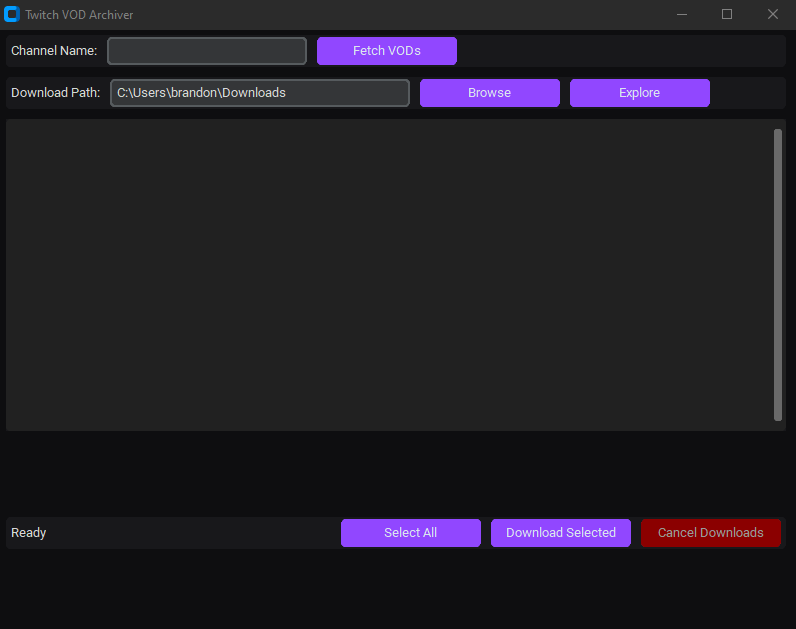
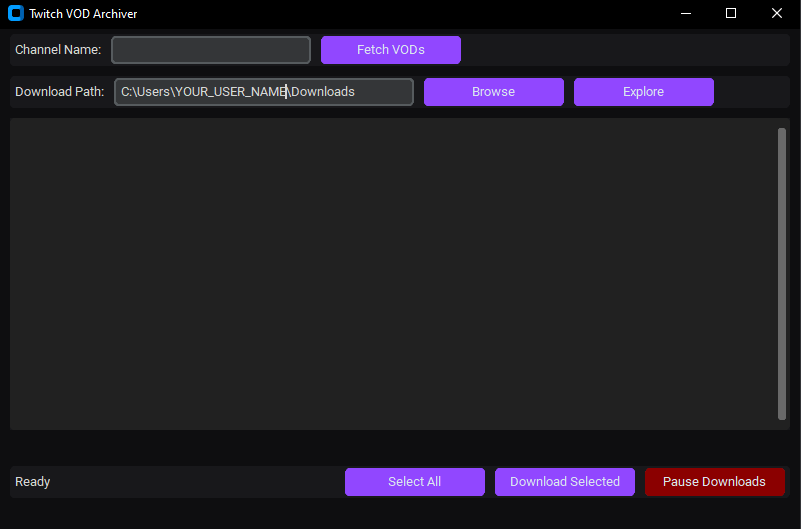
turns out there is no easy way to just cancel out a download, so i turned the cancel button into a pause button, updated screen shot with some changes to the ui

Changed region(s): [[0.0, 0.0, 1.0, 1.0], [0.0, 0.8166, 0.0603, 0.8771], [0.0, 0.9074, 0.0603, 0.9376]]

diff --git a/twitch_local_archiver.py b/twitch_local_archiver.py
@@ -26,7 +26,7 @@ class TwitchVODArchiver:
         self.ui.browse_button.configure(command=self.browse_path)
         self.ui.download_button.configure(command=self.download_selected)
         self.ui.select_all_button.configure(command=self.select_all_vods)
-        self.ui.cancel_button.configure(command=self.cancel_downloads)
+        self.ui.pause_button.configure(command=self.cancel_downloads)
 
     def browse_path(self):
         """Open directory browser"""
@@ -53,6 +53,13 @@ class TwitchVODArchiver:
     def _fetch_vods_thread(self, channel_name: str):
         """Background thread for fetching VODs"""
         try:
+            # video filters:
+            # videos?filter=all&sort=time
+            # videos?filter=highlights
+            # clips?filter=clips&range=24hr,7d,30d,all
+            # videos?filter=uploads&sort=time
+            # videos?filter=collections
+            
             url = f"https://www.twitch.tv/{channel_name}/videos?filter=all"
             ydl_opts = FETCH_OPTS.copy()
             with yt_dlp.YoutubeDL(ydl_opts) as ydl:
@@ -84,9 +91,9 @@ class TwitchVODArchiver:
         """Cancel ongoing downloads"""
         if self.ui.currently_downloading:
             self.is_cancelled = True
-            self.ui.update_status("Cancelling downloads...")
+            self.ui.update_status("Pausing downloads...")
             self.ui.download_button.configure(state="disabled")
-            self.ui.cancel_button.configure(state="disabled")
+            self.ui.pause_button.configure(state="disabled")
             # Clear remaining queue
             self.ui.download_queue.clear()
             
@@ -163,7 +170,7 @@ class TwitchVODArchiver:
         self.is_cancelled = False
         self.ui.currently_downloading = False
         self.ui.download_button.configure(state="normal")
-        self.ui.cancel_button.configure(state="normal")
+        self.ui.pause_button.configure(state="normal")
         
         if self.ui.download_queue:
             self._process_download_queue()

diff --git a/twitch_ui.py b/twitch_ui.py
@@ -111,13 +111,13 @@ class TwitchUI(ctk.CTk):
         self.status_label = ctk.CTkLabel(self.status_frame, text=LABELS["READY"])
         self.status_label.pack(side="left", **PADDING["WIDGET"])
         
-        self.cancel_button = ctk.CTkButton(
+        self.pause_button = ctk.CTkButton(
             self.status_frame,
-            text=LABELS["CANCEL"],
+            text=LABELS["PAUSE"],
             fg_color="darkred",
             hover_color="#8B0000"
         )
-        self.cancel_button.pack(side="right", **PADDING["WIDGET"])
+        self.pause_button.pack(side="right", **PADDING["WIDGET"])
         
         self.download_button = ctk.CTkButton(
             self.status_frame,

diff --git a/ui_config.py b/ui_config.py
@@ -4,7 +4,7 @@ Contains all UI-related constants and theme settings
 """
 
 # Window settings
-WINDOW_SIZE = "800x600"
+WINDOW_SIZE = "800x500"
 WINDOW_TITLE = "Twitch VOD Archiver"
 
 # Twitch theme colors
@@ -39,6 +39,7 @@ LABELS = {
     "DOWNLOAD": "Download Selected",
     "SELECT_ALL": "Select All",
     "READY": "Ready",
-    "CANCEL": "Cancel Downloads",
+    "PAUSE": "Pause Downloads", # currently this pauses the download
+    "EXPLORE": "Explore",
 }
 

diff --git a/README.md b/README.md
@@ -24,10 +24,17 @@ A desktop application for downloading Twitch VODs (Video on Demand) with a user-
 ## Installation
 
 1. Clone the repository
-2. Install dependencies:
-```bash
-pip install customtkinter yt-dlp
-```
+2. Install dependencies using one of these methods:
+
+   Using pip directly:
+   ```bash
+   pip install customtkinter yt-dlp
+   ```
+
+   Using requirements.txt:
+   ```bash
+   pip install -r requirements.txt
+   ```
 
 ## Usage
 
@@ -49,7 +56,7 @@ python twitch_local_archiver.py
 - **Explore**: Opens the current download folder
 - **Select All**: Selects all VODs in the list
 - **Download Selected**: Starts downloading selected VODs
-- **Cancel Downloads**: Stops current and queued downloads
+- **Pause Download**: Pauses current and queued downloads
 
 ## Notes
 
@@ -62,4 +69,5 @@ python twitch_local_archiver.py
 
 - [ ] Add support for downloading clips, highlights, collections
 - [ ] Add support for capturing chat logs
-- [ ] Cancel individual downloads
+- [ ] Cancel individual downloads turns out yt-dlp doesn't support a native call to cancel a download
+- [ ] Add download progress bar
